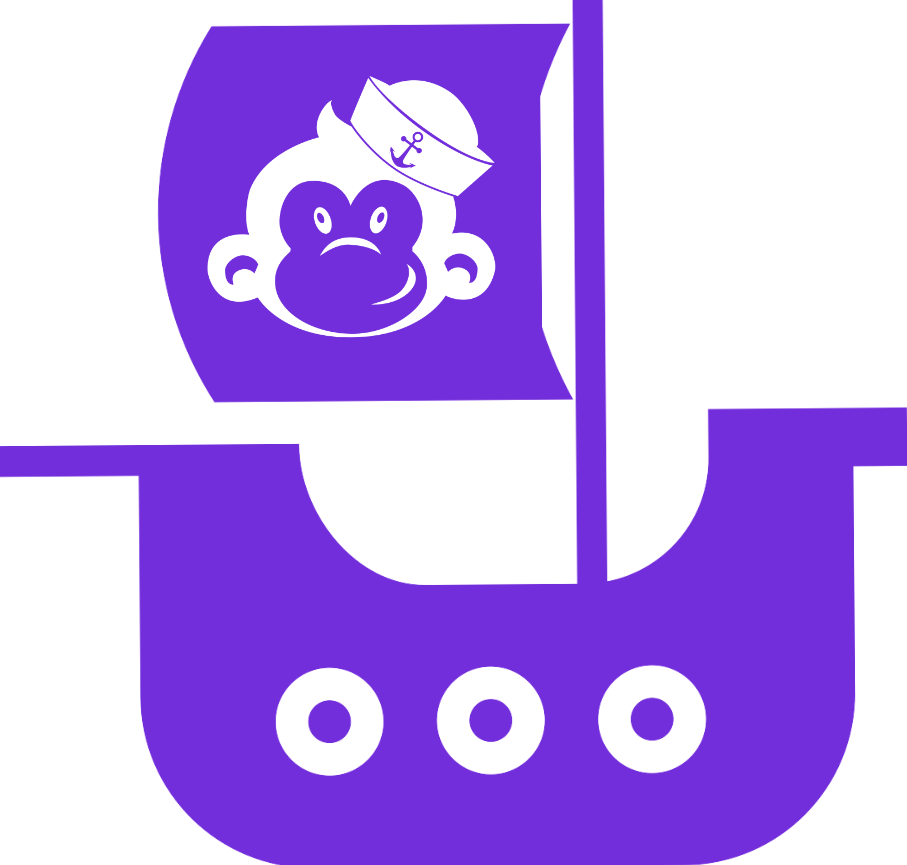
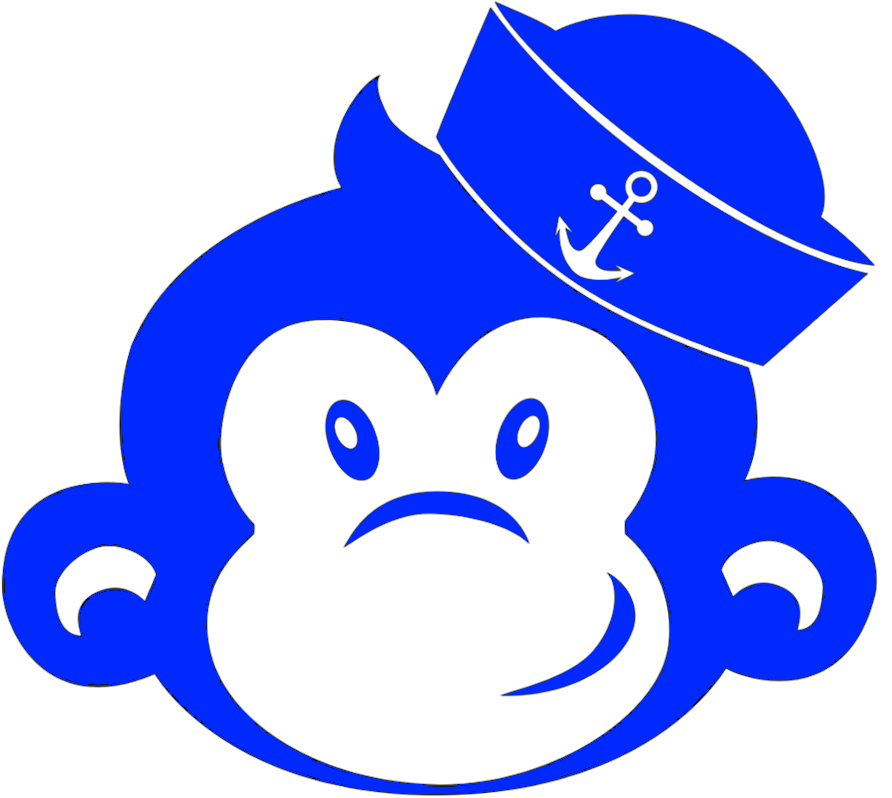
rules wip

diff --git a/src/rules.js b/src/rules.js
@@ -11,59 +11,81 @@ const rules = [
             <br/>
             <div>Game by Colin Thom</div>
             <div>Built by Sarah Edwards</div>
+            <img src={require('./images/monkey_3.png')} alt="monkey pirate" className="icon"/>
         </div>
     </div>,
 
     <div className="tutorialStep">
         <div className="tutorial-text">
-            <div>
-                Flavor setting. Mutiny, monkeys, pirate ships, coconuts, limited space on the sea, control sea routes.
-            </div>
+            <div>A crew of monkeys--with you as the captain--overthrew the pirates. </div>
+            <br/>
+            <div>But it is not gold you want. Nay, coconuts are the bounty you seek! </div>
+            <br/>
+            <div>Alas! There be limited space on the sea. Gain control of the sea routes to get the most coconuts.</div>
+            <img src={require('./images/coconuts.png')} alt="coconuts" className="icon"/>
         </div>
     </div>,
 
     <div className="tutorialStep">
         <div className="tutorial-text">
-            <div>The game starts with the routes immediately controlled after the mutinies.</div>
-            <div>New routes will be build from there</div>
+            <div>Two competing monkey crews vie for the most coconuts.</div>
+            <div>Each player will control a color.</div>
+            <img src={require('./images/two_ships.png')} alt="ships" className="icon"/>
+        </div>
+    </div>,
+
+
+    <div className="tutorialStep">
+        <div className="tutorial-text">
+            <div>The board starts with the routes that existed immediately after the mutinies.</div>
+            <div>New routes will be built from there.</div>
+            <div>TODO show starting stack.</div>
         </div>
     </div>,
 
     <div className="tutorialStep">
         <div className="tutorial-text">
-            <div>Players take turns dragging a tile from the offer to the board</div>
-            <div>The tile must extend at least one existing route</div>
+            <div>Players take turns dragging a tile from the offer to the board.</div>
+            <div>At least one sea route (black line) on the new tile must connect to an existing sea route.</div>
+            <div>Tiles may be staggered vertically.</div>
+            <div>TODO show a tile being dragged from side to board. Maybe just make static, or just have cycle through 1,2,3 tiles played.</div>
         </div>
     </div>,
 
     <div className="tutorialStep">
         <div className="tutorial-text">
-            <div>The player with the most ships on a route controls the route (Show a route with 2 red, 3 blue = blue wins. would be so cool to change color of route to indicate owner)</div>
+            <div>The player with the most ships on a route receives points for the route.</div>
+            <div>If players tie, neither player receives points for the route.</div>
+            <div>As players vie for control, the score will change.</div>
+            <div>TODO Show a route with 2 red, 3 blue = blue wins.</div>
         </div>
     </div>,
 
     <div className="tutorialStep">
         <div className="tutorial-text">
-            <div>An anchor at the end of a route doubles the ships of that color on the route. (Two anchors of the same color on the route have the same effect as a single anchor) (Show 2 red, 3 blue, and blue anchor = red owns (build from above))</div>
+            <div>An anchor at the end of a route doubles the ships of that color on the route. Two anchors of the same color on the route have the same effect as a single anchor.</div>
+            <div>TODO Show 2 red, 3 blue, and blue anchor = red owns (build from above)</div>
         </div>
     </div>,
 
     <div className="tutorialStep">
         <div className="tutorial-text">
-            <div>The number of coconuts on the route determines the value of the route. (show a single + double = 3)</div>
+            <div>The number of coconuts on the route determines the value of the route.</div>
+            <div>TODO show a single + double = 3</div>
         </div>
     </div>,
 
     <div className="tutorialStep">
         <div className="tutorial-text">
-            <div>A chest doubles the number of coconuts on the route. (Multiple chests on the route have the same effect as a single chest)</div>
+            <div>A chest doubles the number of coconuts on the route. Multiple chests on the route have the same effect as a single chest.</div>
+            <div>TODO show a single + double + chest = 6</div>
         </div>
     </div>,
 
     <div className="tutorialStep">
         <div className="tutorial-text">
-            <div>The game ends when all tiles have been placed</div>
-            <div>The color with the most points wins</div>
+            <div>The game ends once all tiles have been placed.</div>
+            <div>The player with the most points wins!</div>
         </div>
     </div>,
 
@@ -72,19 +94,21 @@ const rules = [
 function PreviousButton(props) {
     if(props.currentRule !== 1) {
         return (
-            <button onClick={props.handlePrevious}>Previous</button>
+            <button className="navigation-button" onClick={props.handlePrevious}>&lt;</button>
         )
     }
-    return <button disabled>Previous</button>;
+    return <button disabled className="navigation-button">&lt;</button>;
 }
+
+// TODO how to consolidate Prev active/disabled?
 
 function NextButton(props) {
     if(props.currentRule < rules.length) {
         return (
-            <button onClick={props.handleNext}>Next</button>
+            <button className="navigation-button" onClick={props.handleNext}>&gt;</button>
         )
     }
-    return <button disabled>Next</button>;
+    return <button disabled className="navigation-button">&gt;</button>;
 }
 
 function Tutorial(props) {
@@ -104,20 +128,22 @@ function Tutorial(props) {
     return (
         <Modal>
             <div className="modal">
-                <div className="tutoriall">
-                    <div className="tutorial-navigation">
+                <div className="tutorial">
+                    {/*<div className="tutorial-navigation">*/}
                         <PreviousButton
                             currentRule={currentRule}
                             handlePrevious={handlePrevious}
                         />
-                        <div>{currentRule}/{totalSteps}</div>
+                    {/*</div>*/}
+                    {rules[currentRule-1]}
+
+                    {/*<div className="tutorial-navigation">*/}
+                        <button className="exit-button" onClick={props.handleHide}>&#10005;</button>
                         <NextButton
                             currentRule={currentRule}
                             handleNext={handleNext}
                         />
-                        <button onClick={props.handleHide}>Exit</button>
-                    </div>
-                    {rules[currentRule-1]}
+                    {/*</div>*/}
                 </div>
             </div>
         </Modal>

diff --git a/src/rules.css b/src/rules.css
@@ -4,9 +4,13 @@
 }
 
 .modal {
-    font-size: 16px;
+    font-size: 14px; /* fall back */
+    font-size: 4.0vh;
     font-weight: normal;
-    background-color: rgb(0, 0, 0);
+    background-image: url('./images/sea_background.png');
+    background-position: center; /* Center the image */
+    background-repeat: no-repeat; /* Do not repeat the image */
+    background-size: cover; /* Resize the background image to cover the entire container */
     position: fixed;
     height: 100%;
     width: 100%;
@@ -16,43 +20,69 @@
     flex-direction: column;
     align-items: center;
     justify-content: center;
+    text-align: center;
 }
 
+.icon {
+    height: 100px;
+    margin: 10px;
+}
 
 .tutorial {
-    height: 450px;
-    width: 250px;
+    display: flex;
+    flex-direction: row;
+    justify-content: space-between;
+    height: 100%;
+    width: 100%;
+}
+
+.tutorial-navigation {
+    color: black;
     display: flex;
     flex-direction: column;
+    /*justify-content: space-between;*/
+    margin: 10px;
+    background-color: red;
+    align-items: center;
+}
+
+button {
+    background-color: transparent;
+    margin-right: 0;
+    border-radius: 0;
+    border: 0;
+    color: gray;
+}
+
+button:disabled {
+    color: darkgray;
+}
+
+.navigation-button {
+    display: flex;
+    align-items: center;
+    height: 100%;
+}
+
+.exit-button {
+    height: 20px;
+    width: 20px;
+    position: absolute;
+    right: 0;
 }
 
 .tutorialStep {
     overflow: hidden;
-    color: lightgray;
-    max-width: 250px;
+    color: black;
+    display: flex;
+    flex-direction: column;
 }
 
 .tutorial-text {
     margin: 10px;
 }
 
-.tutorial-board {
-    max-width: 230px;
-    margin: auto;
-}
-
 .red_token {
     color: var(--red_color);
 }
 
-.tutorial-navigation {
-    color: lightgray;
-    display: flex;
-    flex-direction: row;
-    justify-content: space-between;
-    margin: 10px;
-}
-
-button:disabled {
-    color: gray;
-}

diff --git a/src/index.js b/src/index.js
@@ -9,8 +9,6 @@ import './rules.css';
 
 
 // todo items
-// would like draw pile to visually reflect number left
-// make offer on side for screen size less that x
 // TESTS!
 // lock in place? Or center to mouse?
 // add rule images/animations
@@ -21,6 +19,7 @@ import './rules.css';
 // When resize screen too small, board gets jumbled. either restrict min size or after a certain point, start shrinking the squares
 // how to not duplicate modal.js between monkeys and stars?
 // Add monkeys background or art to rules
+// would be so cool to change color of route to indicate owner
 
 export function shuffleArray(array) {
     // Swap each value in an array, starting at the end of the array, with a position equal or earlier in the array.
